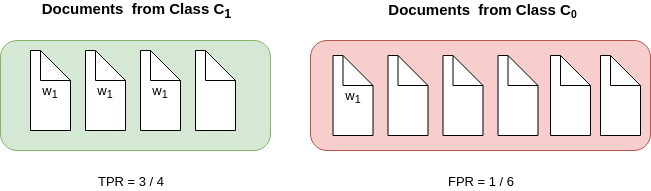
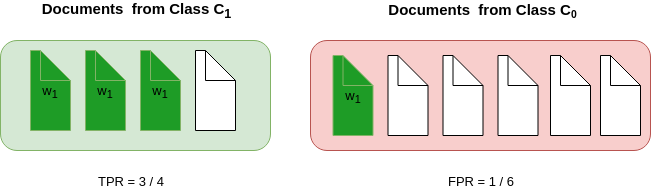
premiere version release candidate

Changed region(s): [[0.0307, 0.2618, 0.2765, 0.7068], [0.4916, 0.288, 0.5837, 0.733]]

diff --git a/methodology.tex b/methodology.tex
@@ -27,12 +27,12 @@
 		\item Crawler and Scrapers
 		\begin{itemize}
 			\item Mimics the user by browsing without browser
-			\item limitations: user interface design, dynamic rendered content and capcha
+			\item limitations: user interface design and capcha
 		\end{itemize}		
 		\item Application Programming Interface (API)
 		\begin{itemize}
-			\item API based economy
 			\item Communication contract
+			\item API based economy
 		\end{itemize}	
 		\item Extraction Software should support both methods of extraction
 	\end{itemize}	
@@ -45,14 +45,12 @@
 	\textbf{Using Textual Data}
 	\begin{itemize}
 		\item Linking key words to categories 
-		\item Using the dynamic descendent classification framework
+		\item Using the classifier
 	\end{itemize}	
 	
-	\textbf{Dynamic descendent classifier}
+	\textbf{Classifier}
 	\begin{itemize}
 		\item Machine Learning Algorithm trained to predict class based on words
-		\item convert words into numeric vector
-		\item generate a prediction based on the vector's values
 	\end{itemize}	
 	
 \end{frame}
@@ -61,18 +59,16 @@
 \begin{frame}[label=metho]{Methodology}
 	\textbf{Training an algorithm}
 	\begin{itemize}
-		\item Classification is a task requiring supervised learning
+			\item "Calibration"
+		\begin{itemize}
+			
+		\item \textit{learn} the $\beta$ that minimize the Mean Square Error in Linear regression
+			\end{itemize}	
+		
+	
+		\item Classification and Regression Training are supervised learning tasks.
 		\item Requires a set of $N$ example with their good answer
 		\item Calibrate itself to minimize loss function
-	\end{itemize}	
-	
-	\textbf{Algorithm Trained by Supervised Learning}
-	\begin{itemize}
-		\item Be $\boldmath{X}$ a $N\times M$ matrix, with $N$ the number of example and $M$ features
-		\item Be $\boldmath{Y}$ a $N\times1$ column vector, containing the associated values of the $N$ examples
-		\item Let the algorithm \textit{learn} the $\beta$ that minimize the Mean Square Error in 
-		$$ \boldmath{Y} = \beta\boldmath{X} $$
-		\item Arguably, the $\boldmath{\beta}$ are obtained with the Maximum Likely Hood estimators
 	\end{itemize}	
 	
 \end{frame}
@@ -96,7 +92,7 @@
 \begin{frame}[label=metho]{Methodology}
 	\textbf{Not Using Big Data in Machine Learning}
 	\begin{itemize}
-		\item Unrelated, yet linked concept
+		\item Very different, yet linked concept
 		\item Machine Learning is the concept of training algoritmm for specific task
 		\item Big Data refers to Data with usage problem due to the 4Vs
 		\begin{itemize}
@@ -141,6 +137,25 @@
 
 \begin{frame}[label=metho]{Methodology}
 	\textbf{Occurence Matrix Example}
+	
+	
+	\begin{table}[H]
+		\centering
+		\begin{tabular}{|c|c|c|c|c|c|}
+			\hline 
+			&  broker  & for & hamburger & ... & zebra   \\ 
+			\hline 
+			Document 1 &    1 & 1 & 0 & ... & 0  \\ 
+			\hline 
+			Document 2&    0 & 1 & 1 & ... & 1 \\ 
+			\hline 
+			Document 3 &    0 & 1 & 0 & ... & 1  \\ 
+			\hline 
+			
+		\end{tabular} 
+		
+	\end{table}
+	
 \end{frame}
 
 \begin{frame}[label=metho]{Methodology}
@@ -182,38 +197,90 @@
 		\item Classification task wants to maximise discrimination between $k$ classes.
 		\item Add weigth to token that are usefull
 		\item Remove weigth to token that are useless
-		\item Metrics for usefulness
-		\begin{itemize}
-			\item Term-Frequence \ Inverse-Document-Frequency (TF/IDF)
-			\item Bi-Normal Separation (BNS)
-		\end{itemize}
+		
 	\end{itemize}
 \end{frame}
 
 
+
 \begin{frame}[label=metho]{Methodology}
-	\textbf{Document-Frequencty / Inverse-Document-Frequency}
+	\textbf{Matrix Transformation Example}
+	
+	
+	\begin{table}[H]
+		\centering
+		\begin{tabular}{|c|c|c|c|c|c|}
+			\hline 
+			&  broker  & for & hamburger & ... & zebra   \\ 
+			\hline 
+			Document 1 &    1\textbf{(+)} & 1\textbf{(- -)} & 0 & ... & 0  \\ 
+			\hline 
+			Document 2&    0 &  1 \textbf{(- -)}& 1 \textbf{(+)} & ... & 1\textbf{(-)} \\ 
+			\hline 
+			Document 3 &    0 & 1 \textbf{(- -)} & 0 & ... & 1\textbf{(-)}  \\ 
+			\hline 
+			
+		\end{tabular} 
+		
+	\end{table}
+	
+\begin{itemize}
+	\item Metrics for usefulness
+	\begin{itemize}
+		\item Term-Frequence \ Inverse-Document-Frequency (TF/IDF)
+		\item Bi-Normal Separation (BNS)
+	\end{itemize}
+\end{itemize}
+
+\end{frame}
+
+\begin{frame}[label=metho]{Methodology}
+	\textbf{Term-Frequencty / Inverse-Document-Frequency (TF/IDF)}
 	\begin{itemize}
 		\item Intuition
 		\begin{itemize}
 			\item Useless Word that do not carry meaning would appear in any document, regardless the category
 			\item Usefull Domain related word should occur often in a document
 		\end{itemize}
-		\item formula here
-	\end{itemize}
+		\item Formula
+\end{itemize}
+$$ \textrm{tf-idf} = tf(w_i,d_j) \cdot idf(w_i, D)$$
+$$tf(i, j) = 0.5 + 0.5 \times \frac{\textrm{count}(w_i, d_j)}{|d_j|}  $$
+$$idf(i, D) = \log \frac{|D|}{|\{d \in D :  w_i \in d \}|}$$
+
 \end{frame}
 
 
 \begin{frame}[label=metho]{Methodology}
-	\textbf{Bi-Normal Separation}
+	\textbf{Bi-Normal Separation (BNS)}
 	\begin{itemize}
+				\item Presented in \cite{Forman}
 		\item Intuition
 		\begin{itemize}
 			\item Words that occurs only in documents of a single category are usefull
 			\item Words occuring randomly in documents are useless
 		\end{itemize}
-			\item formula here
 	\end{itemize}
+		\begin{table}[H]
+		\begin{tabular}{|c|c|c|c|c|c|c|}
+			\hline 
+			& $C_k$&  broker  & for & hamburger & ... & zebra   \\ 
+			\hline 
+			Document 1 &  Insurance &  1 (+) & 1(- -) & 0 & ... & 0 \\ 
+			\hline 
+			Document 2& Zoo &   0 &  1 (- -) & 1 (+) & ... & 1\textbf{(+)} \\ 
+			\hline 
+			Document 3 & Zoo &  0 & 1 (- -) & 0 & ... & 1\textbf{(+)}  \\ 
+			\hline 
+			
+		\end{tabular} 
+		
+	\end{table}
+\begin{itemize}
+		\item Formula
+\end{itemize}
+$$BNS = abs(\Phi^{-1}(TPR(w_i, D))- \Phi^{-1}(TNR(w_i, D)))$$
+
 \end{frame}
 
 
@@ -221,18 +288,19 @@
 
 	\textbf{True Positive Rate (TPR), False Positive Rate (FPR)}
 	\begin{itemize}
-		\item Example: $k=2$ classes, $N$ documents of known but hidden category
-	\end{itemize}
+		\item Example: 10 documents of known but hidden category, 2 cagories.
+		\item Guess class $C_1$ for document $d_i, i = 1,...,N$ if $w_1$ is present.	
+\end{itemize}
 
 			\includegraphics[width=\textwidth]{images/TPRFPR_example.png}
 
 	\begin{itemize}
-		\item Guess class $C_1$ for document $d_i, i = 1,...,N$ if $w_1$ is present.
-			\item Amongs $n$ guessed docuement:
+		
+			\item Amongs the guessed docuement:
 		\begin{itemize}
 
-			\item \textbf{TPR} = number of documents $d$ that really belong to $C_1$ / the real number of documents belonging to $C_1$
-			\item \textbf{FPR} = number of documents $d$ that do not belong to $C_1$ / the real number of documents not belonging to $C_1$
+			\item \textbf{TPR} = $\frac{\textrm{Number of documents that really belongs to } C_1}{\textrm{Total number of documents belonging to } C_1} $
+			\item \textbf{FPR} = $\frac{\textrm{Number of documents that do not belongs to } C_1}{\textrm{Total number of documents not belonging to } C_1} $
 		\end{itemize}
 	\end{itemize}
 
@@ -277,7 +345,7 @@
 		\item Algorithms for classification
 		\begin{itemize}
 			\item Naive Bayes Classifier, Logistic Regression
-			\item Support Vector Machine (SVM), Neural Network (DL)
+			\item Support Vector Machine (SVM), Deep Neural Network (DL)
 		\end{itemize}
 	\end{itemize}
 \end{frame}
@@ -287,11 +355,11 @@
 	\textbf{Naive Bayes Classifier}
 	\begin{itemize}
 		\item Very useful baseline algorithm
-		\item Strong Hypothesis, but okay in NLP
+		\item Strong Hypothesis, but very okay in NLP
 		\item Given the class of the document, all features are independant
 		\item Prediction formula
-		$$\hat{y} = \arg\max P(C_k) \prod_{n}^{i=1}p(x_i|C_k)$$
-		\item Where \textit{a posteriori} probabilities have been learned using the moment estimators
+		$$\hat{y} = \arg\max P(C_k) \prod_{i=1}^{N}p(x_i|C_k)$$
+		\item Where \textit{a posteriori} probabilities have been learned using the maximul likelyhood estimators.
 		
 	\end{itemize}
 	
@@ -310,7 +378,7 @@
 $$ \hat{y} = \arg\max \beta_{K0} + \boldsymbol{\beta_{K}^T} \cdot  \boldsymbol{x} , $$
 		\item Where the parameters have been learned by maximizing the likelihood score
 
-	$$  l(\beta) = \sum_{N}^{i=1} y_i \beta^T x_i - \log(1+ e^{B^T x_i}) $$
+	$$  l(\beta) = \sum_{i=1}^{N} y_i \beta^T x_i - \log(1+ e^{\beta^T x_i}) $$
 		
 	\end{itemize}
 \end{frame}

diff --git a/experimentation.tex b/experimentation.tex
@@ -13,7 +13,7 @@
 		\end{itemize}
 	\item Use accuracy evaluation to compare
 		\begin{itemize}
-			\item Traditional NLP metrics and a dummy classifier 
+			\item a dummy classifier and traditional NLP elements
 			\item Traditional NLP metrics and the improvements from this project's work
 		\end{itemize}
 	\end{itemize}
@@ -34,13 +34,12 @@
 
 
 \begin{frame}[label=exp]{Experimentation}
-	\textbf{Evaluating the Dummy Classifier Performance}
+	\textbf{the Dummy Classifier Performance}
 	
 	\begin{itemize}
 		\item Define the dummy classifier 
 		\begin{itemize}
-			\item Classifier that would always select the majoritary class
-			\item Accuracy = 15\%
+			\item Classifier that would always select the class
 		\end{itemize}
 		
 	\end{itemize}
@@ -48,11 +47,12 @@
 \end{frame}
 
 \begin{frame}[label=exp]{Experimentation}
-	\textbf{Traditional NLP Methodology Accuracy}
 	
-	-	graph 1
-	
-	-	conclusion
+	\begin{figure}
+		\caption{Dummy Classifier vs Traditionnal NLP}
+		\centering
+		\makebox[\textwidth]{\includegraphics[width=0.7\textwidth, height=0.7\textheight]{images/dummy_vs_nlp.png}}
+	\end{figure}
 	
 \end{frame}
 
@@ -60,11 +60,11 @@
 
 
 \begin{frame}[label=exp]{Experimentation}
-	\textbf{Traditional NLP vs New technique}
-	
-	-	graph 2
-	
-	-	conclusion
+	\begin{figure}
+		\caption{Dummy Classifier vs Traditionnal NLP}
+		\centering
+		\makebox[\textwidth]{\includegraphics[width=0.7\textwidth, height=0.7\textheight]{images/nlp_vs_project.png}}
+	\end{figure}
 	
 \end{frame}
 

diff --git a/conclusion.tex b/conclusion.tex
@@ -4,7 +4,7 @@
 	
 	\begin{itemize}
 	\item BNS seems to enhance the classification performance
-	\item Hierarchical classifier can easily be used to predict higher level class until a certain certainty
+	\item Hierarchical classifier can easily be used to predict higher level class until a significance threshold
 	\item Not yet accurate enough for production
 	\begin{itemize}
 		\item Relatively limited dataset
@@ -15,9 +15,11 @@
 	\textbf{Future Work}
 	
 	\begin{itemize}
+		
+		\item Get more data / Better coverage for all classes
 		\item Combining sources of data
-		\item Extend Classification Framework to select optiaml node parameters
-		\item 
+		\item Extend Classification Framework to select optimal node parameters
+		
 	\end{itemize}
 	
 \end{frame}

diff --git a/introduction.tex b/introduction.tex
@@ -35,26 +35,11 @@
 
 
 \begin{frame}[label=intro]{Introduction}
-	\textbf{Support Decision making}
-	\begin{itemize}
-		\item Determine company activity
-		\item Using Data from External sources
-	\end{itemize}
 	\textbf{What we tried to do}
 	\begin{itemize}
 		\item Download unstructured data from Yellow Pages and Google Places
 		\item In order to determine a compagny's activity
 		\item While the company is askings for an insurance coverage
-	\end{itemize}
-\end{frame}
-
-
-\begin{frame}[label=intro]{Introduction}
-	\textbf{Novel Elements}
-	\begin{itemize}
-		\item The use of live data, that might or not be there
-		\item A new input weigthing scheme 
-		\item A dynamic descending classification framework
 	\end{itemize}
 \end{frame}
 
